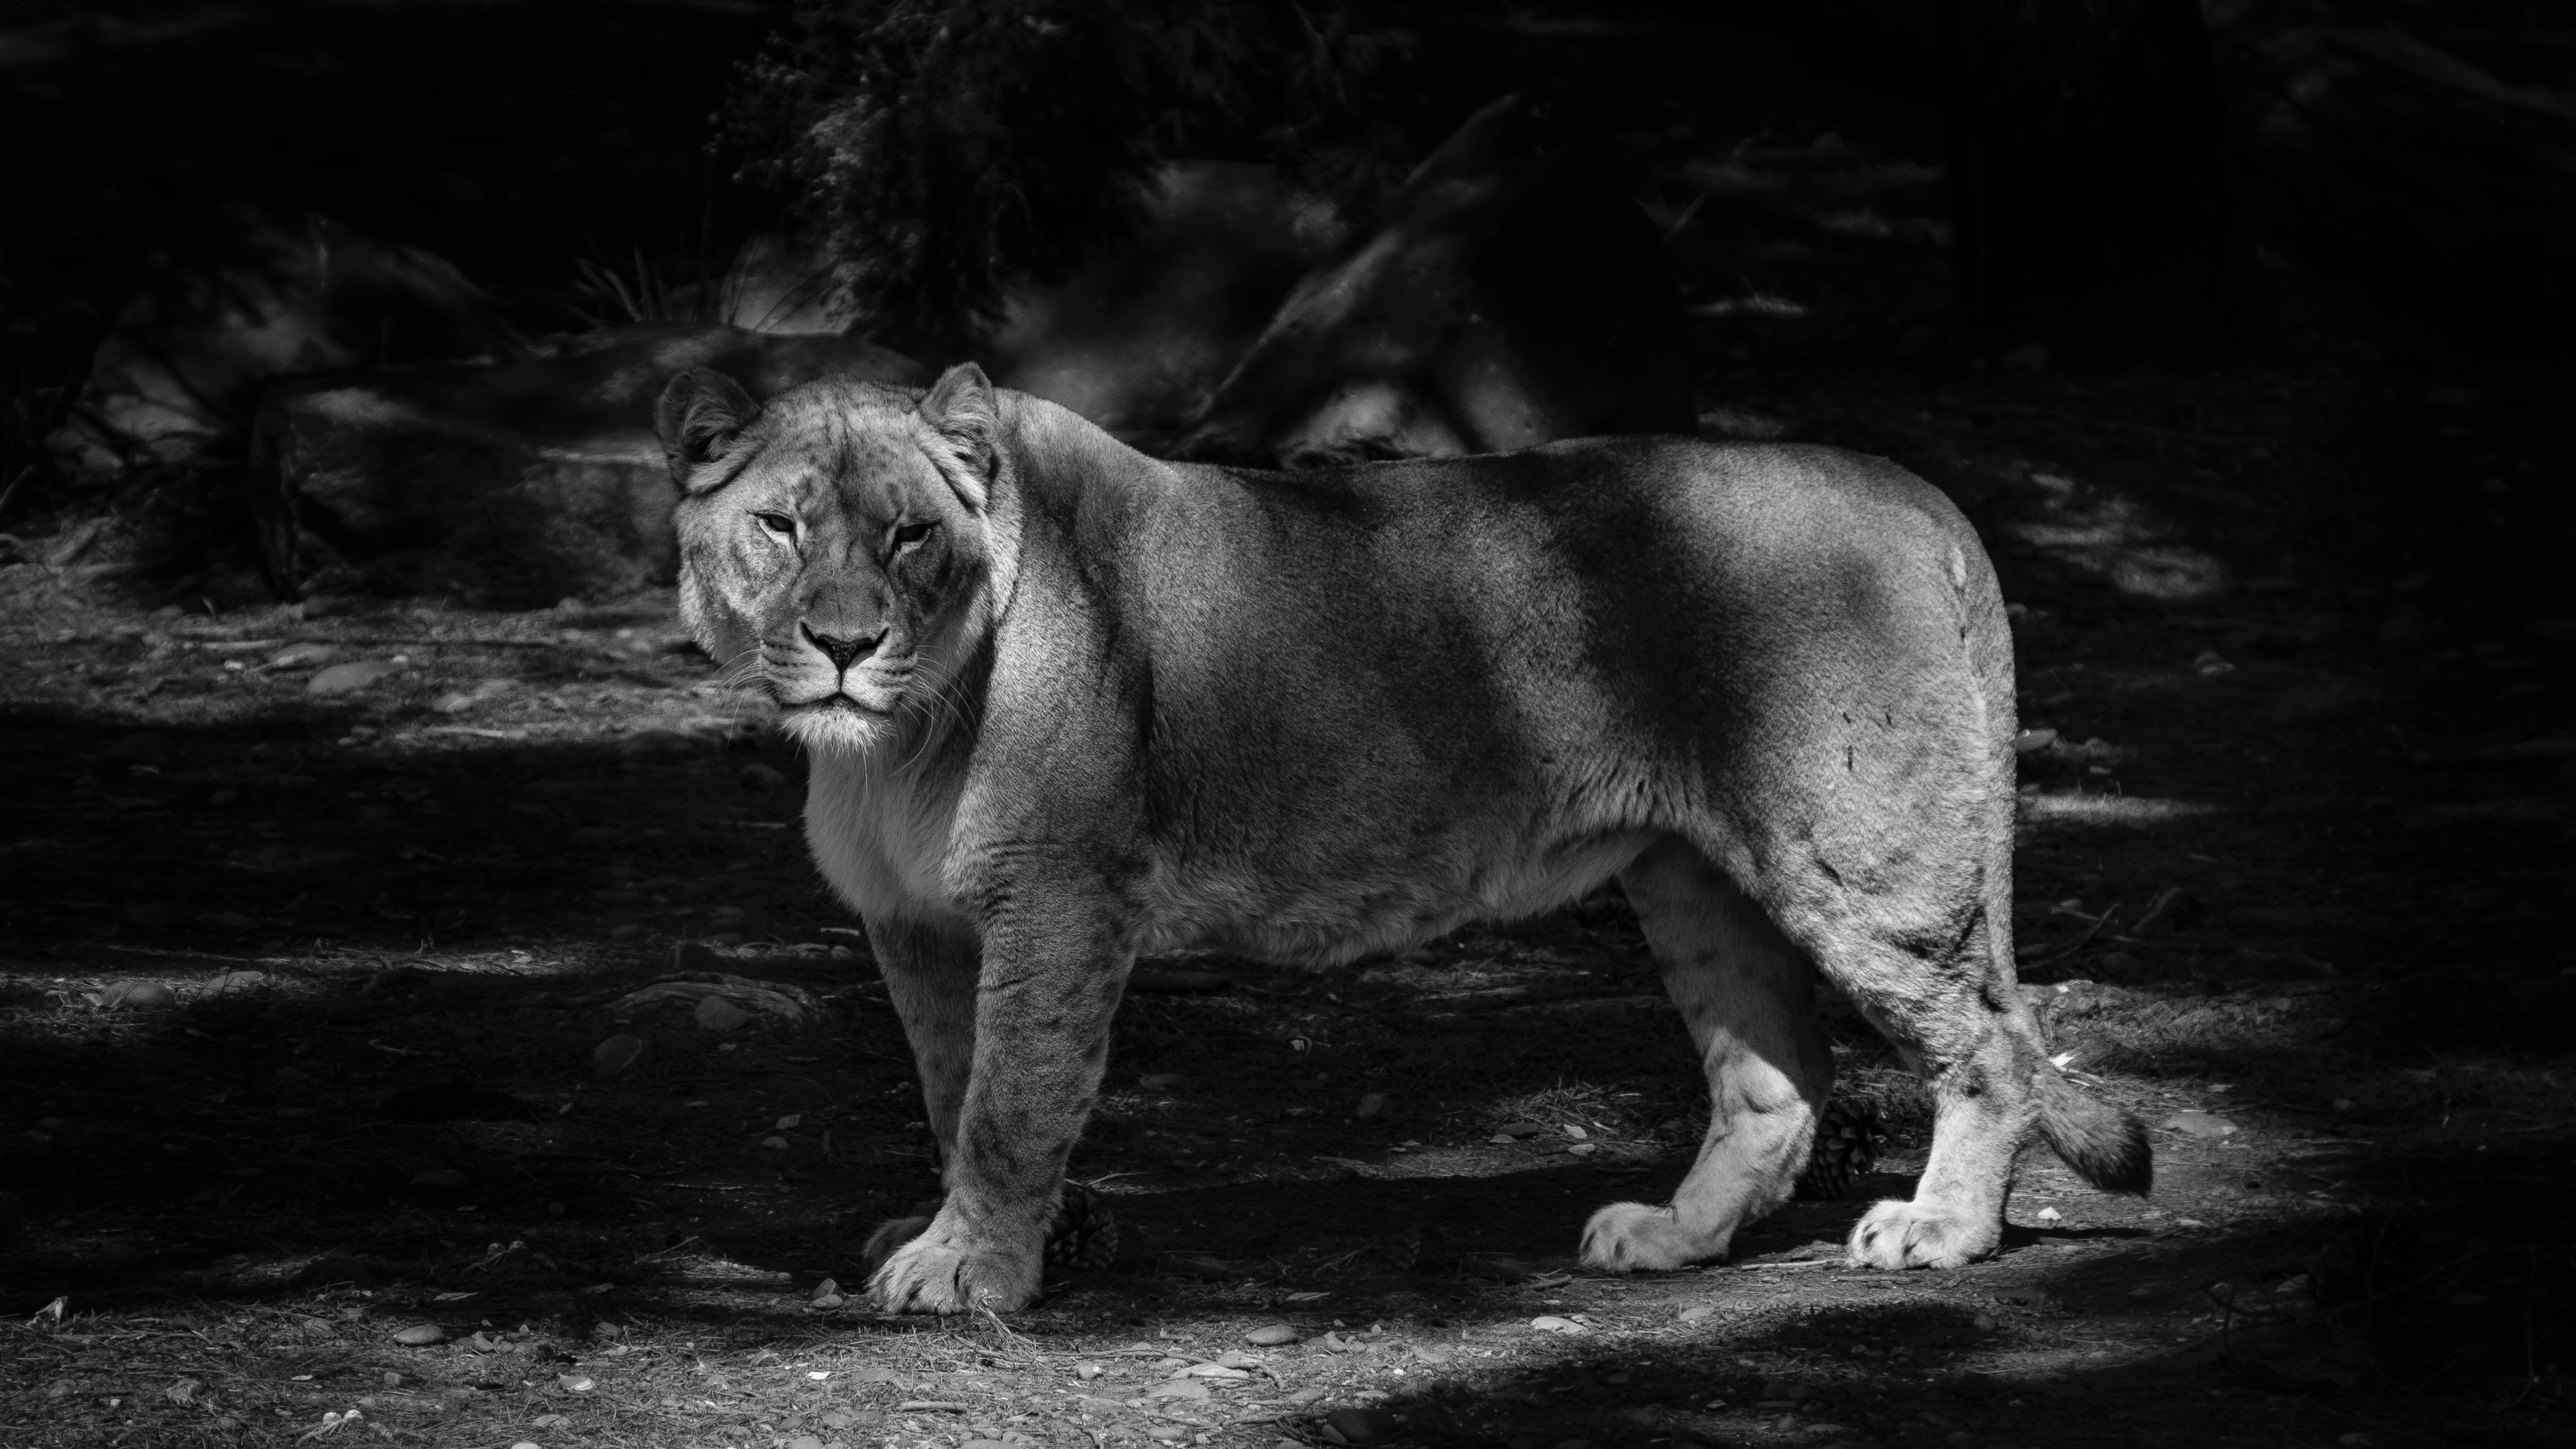
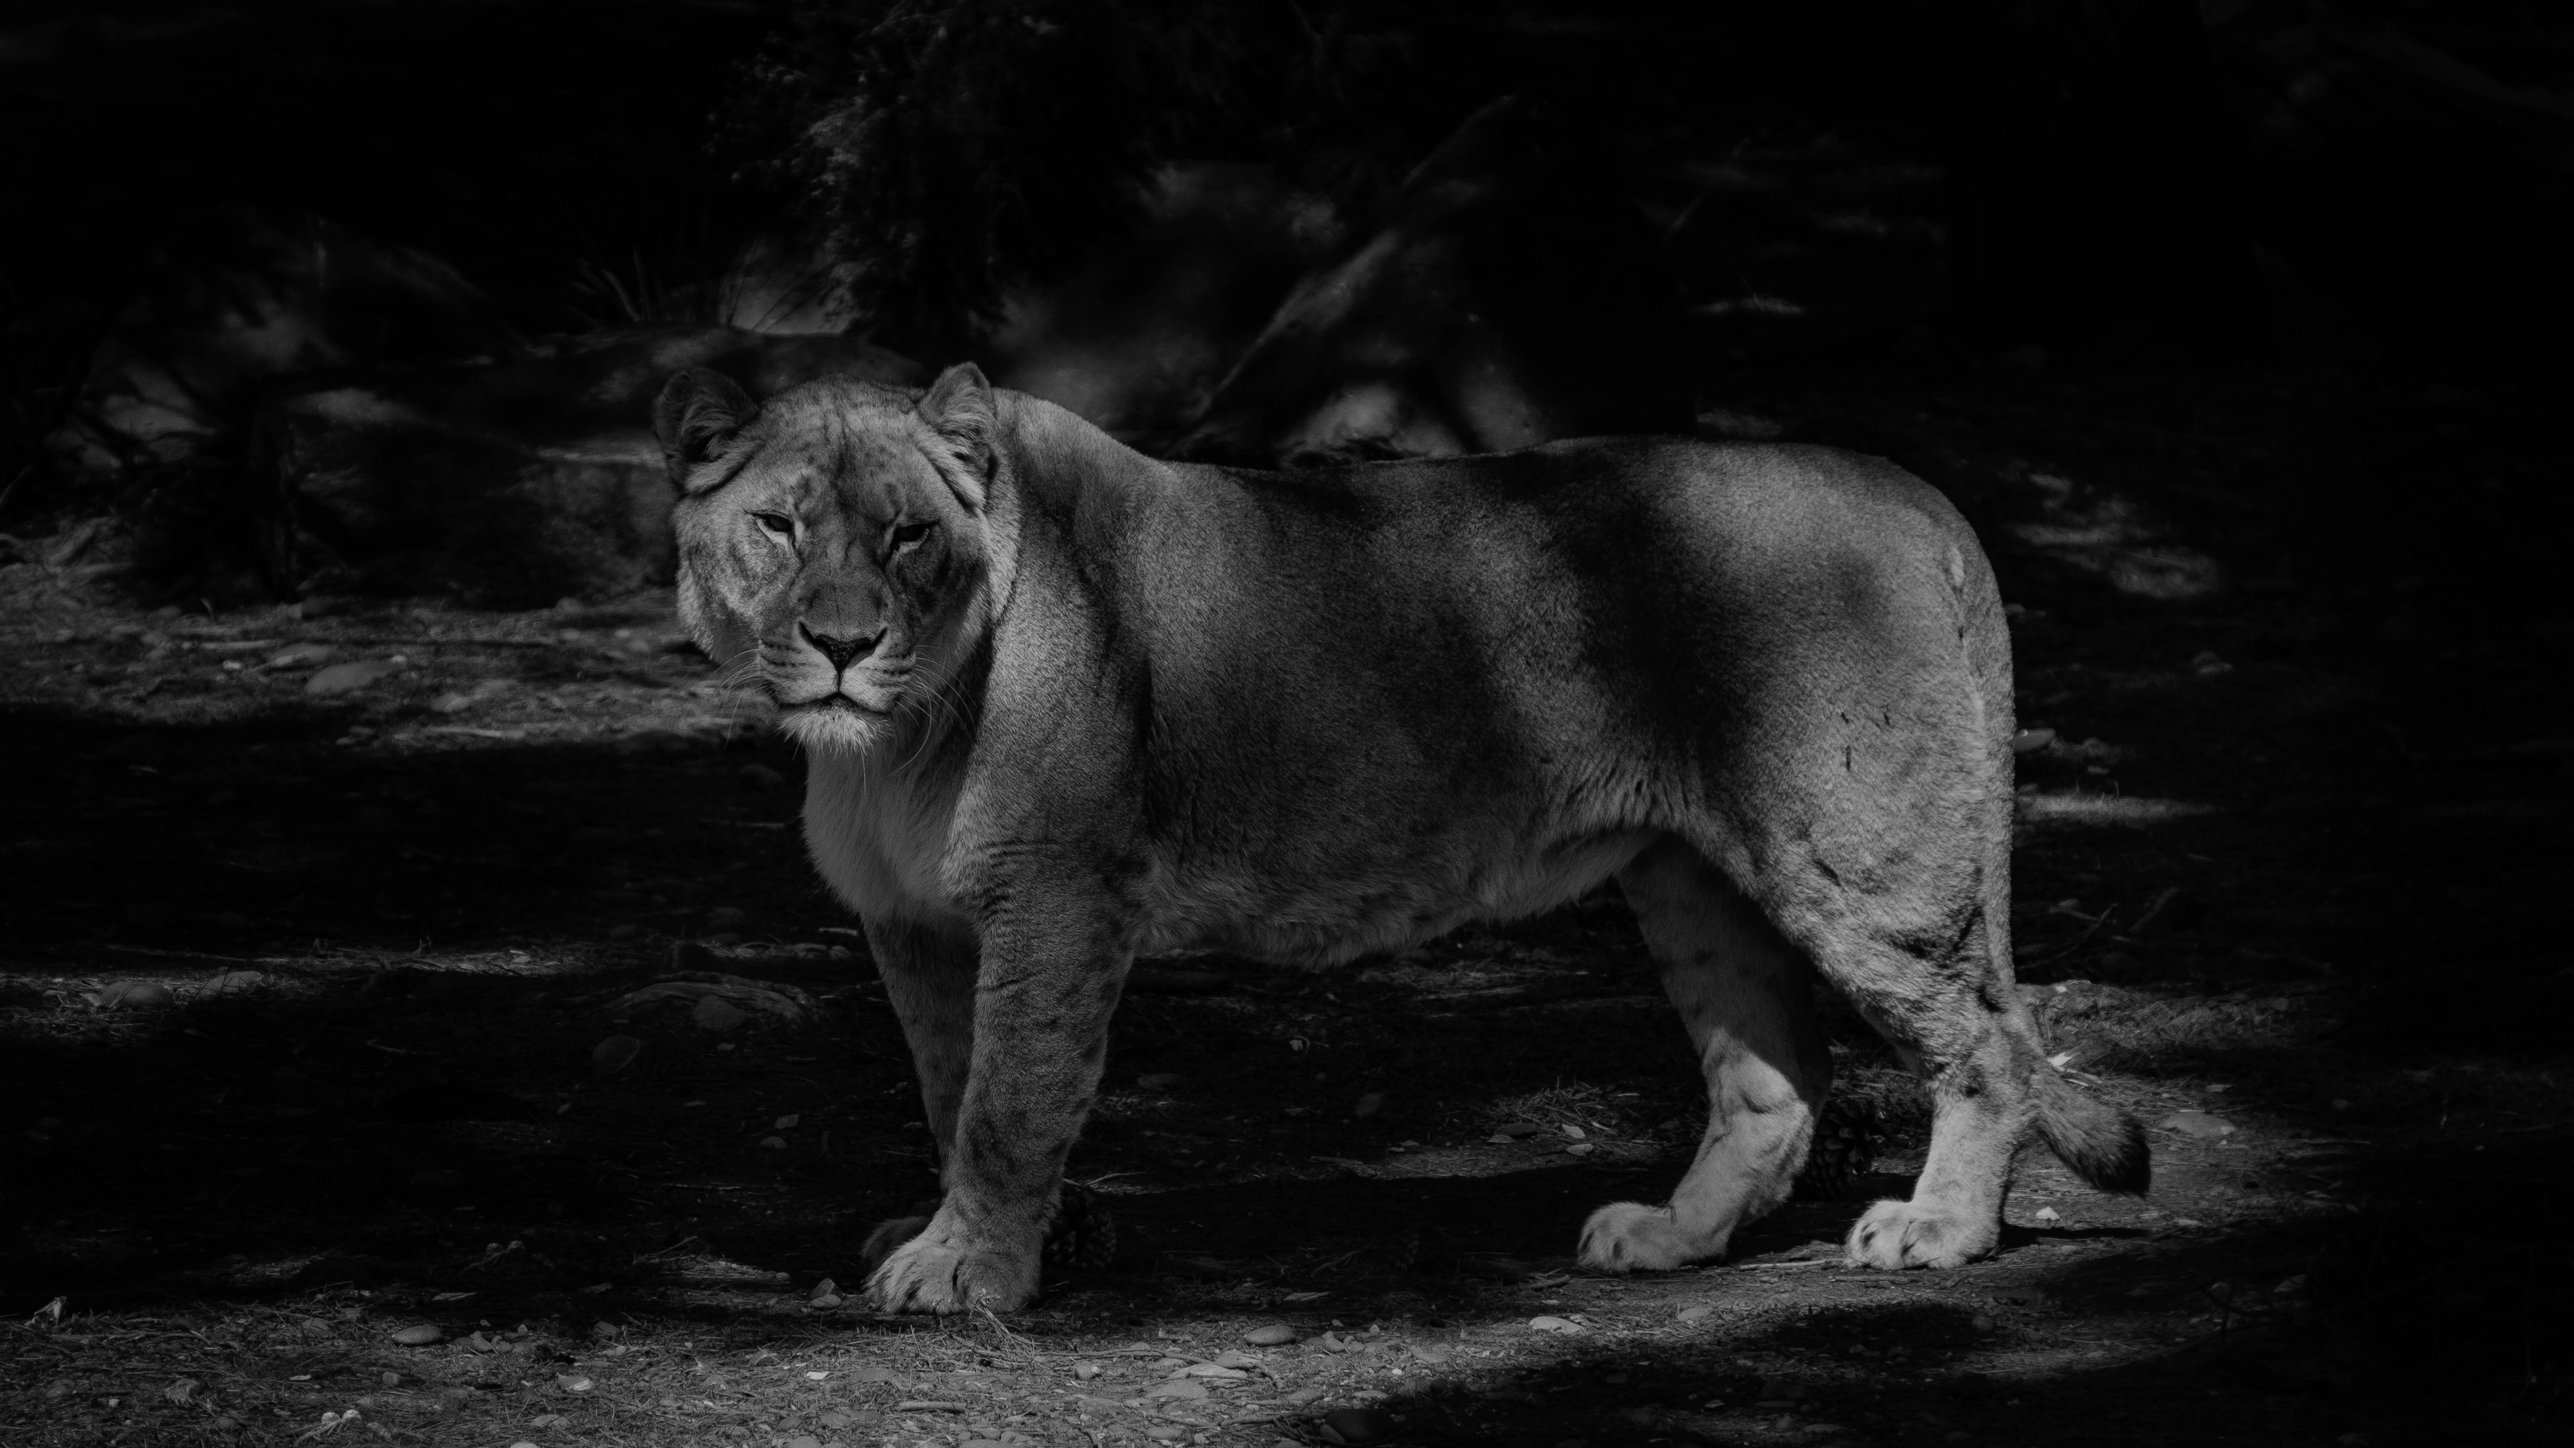
Update: Work for today

diff --git a/css/index.scss b/css/index.scss
@@ -3,10 +3,8 @@ body{
     margin: 0;
     padding: 0;
     background-image: url("../img/lion.jpg");
-    background-color: #0000007c;
     background-attachment: fixed;
     background-size: cover;
-    background-blend-mode: darken;
     header {
         position: sticky;
         top: 0;
@@ -124,10 +122,30 @@ body{
             bottom: 0;
             color: white;
             width: 20%;
-            left: 0.5em;
+            left: 0.5rem;
 
             p {
                 font-size: 0.9em;
+            }
+        }
+
+        .social-media {
+            position: absolute;
+            bottom: 0;
+            right: 0.5rem;
+            color: white;
+            display: flex;
+            
+            span {
+                height: 20pt;
+                width: 20pt;
+                display: flex;
+                padding: 0.4rem;
+                img {
+                    height: 100%;
+                    width: 100%;
+                    fill: currentColor;
+                }
             }
         }
         

diff --git a/index.html b/index.html
@@ -15,9 +15,6 @@
                 <li><a href="">Home</a></li>
                 <li><a href="">Projects</a></li>
             </ul>
-            <span class="profile-photo">
-                <img src="./img/profile_photo.jpg" alt="">
-            </span>
             <ul>
                 <li><a href="">Blog</a></li>
                 <li><a href="">Github</a></li>
@@ -34,6 +31,18 @@
 
         <div class="description">
             <p class="length-desc">I'm big thinker. I love to solve organizational problems through mature and proper design.</p>
+        </div>
+        <div class="social-media">
+            <span>
+                <a href="https://github.com/teddy-otieno" target="_blank">
+                    <img src="./img/github-logo.svg" alt="">
+                </a>
+            </span>
+            <span>
+                <a href="" target="_blank">
+                    <img src="./img/linkedin.svg" alt="" >
+                </a>
+            </span>
         </div>
     </section>
     <section class="second-page">

diff --git a/css/index.css b/css/index.css
@@ -2,10 +2,8 @@ body {
   margin: 0;
   padding: 0;
   background-image: url("../img/lion.jpg");
-  background-color: #0000007c;
   background-attachment: fixed;
   background-size: cover;
-  background-blend-mode: darken;
 }
 
 body header {
@@ -166,11 +164,36 @@ body .side-intro .description {
   bottom: 0;
   color: white;
   width: 20%;
-  left: 0.5em;
+  left: 0.5rem;
 }
 
 body .side-intro .description p {
   font-size: 0.9em;
+}
+
+body .side-intro .social-media {
+  position: absolute;
+  bottom: 0;
+  right: 0.5rem;
+  color: white;
+  display: -webkit-box;
+  display: -ms-flexbox;
+  display: flex;
+}
+
+body .side-intro .social-media span {
+  height: 20pt;
+  width: 20pt;
+  display: -webkit-box;
+  display: -ms-flexbox;
+  display: flex;
+  padding: 0.4rem;
+}
+
+body .side-intro .social-media span img {
+  height: 100%;
+  width: 100%;
+  fill: currentColor;
 }
 
 body .second-page {
